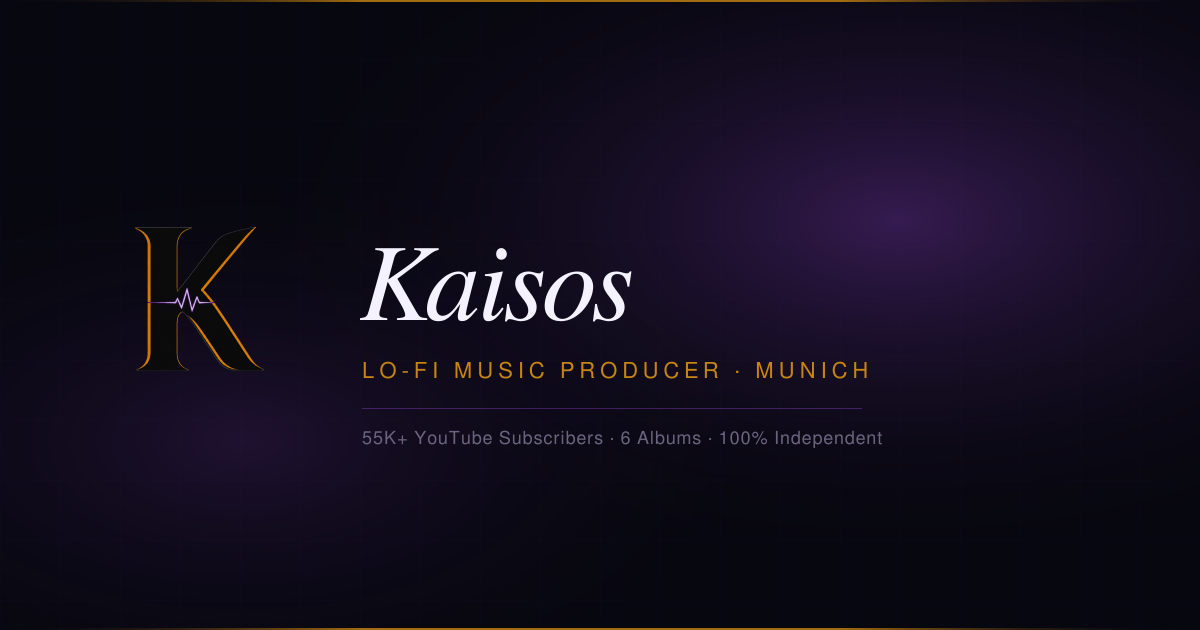
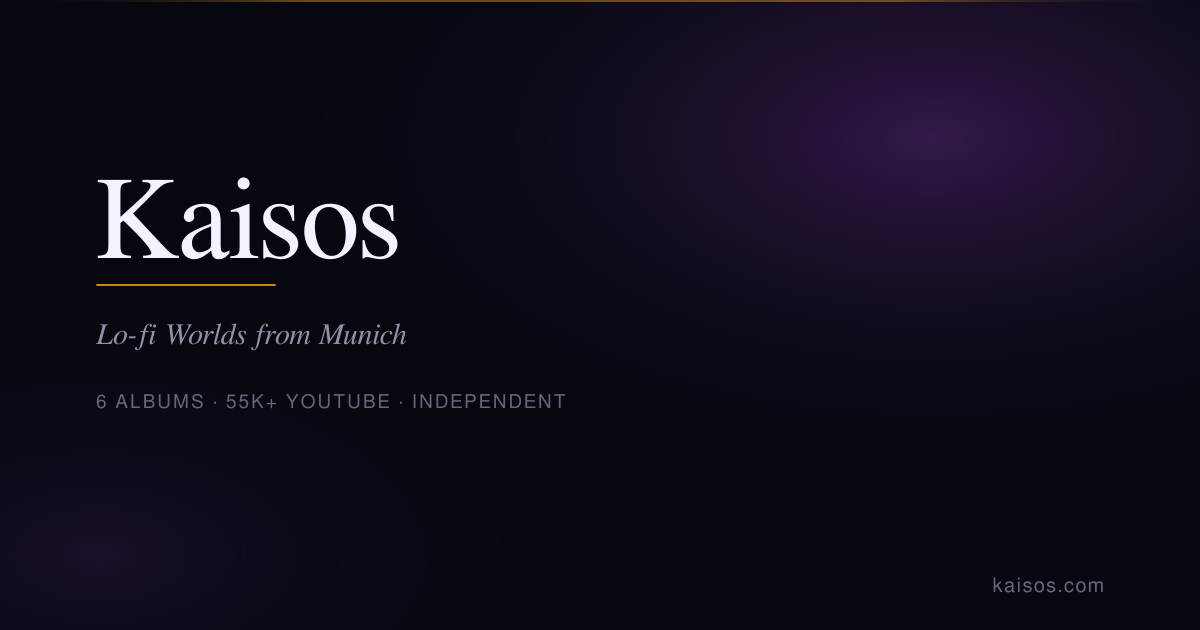
OG image redesign, font preloading, inline style cleanup
- og-image: redesigned from scratch — Kaisos name, gold separator,
  italic tagline, stats row, domain mark; purple glow atmosphere;
  95KB (was 141KB)
- Font preloading: inter-latin, cg-normal-latin, cg-italic-latin
  preloaded on all 4 main pages — eliminates FOIT on first load
- press.html: logo photo card inline style → .photo-logo-img CSS class;
  dead /* Contact */ CSS comment removed

diff --git a/press.html b/press.html
@@ -27,6 +27,9 @@
 <link rel="icon" type="image/png" href="favicon.png"/>
 <link rel="apple-touch-icon" href="Logo.png"/>
 <title>Press — Kaisos</title>
+<link rel="preload" as="font" type="font/woff2" href="/fonts/inter-latin.woff2" crossorigin/>
+<link rel="preload" as="font" type="font/woff2" href="/fonts/cg-normal-latin.woff2" crossorigin/>
+<link rel="preload" as="font" type="font/woff2" href="/fonts/cg-italic-latin.woff2" crossorigin/>
 <link rel="stylesheet" href="/fonts.css"/>
 <style>
 *,*::before,*::after{margin:0;padding:0;box-sizing:border-box}
@@ -123,7 +126,7 @@ nav{position:fixed;top:0;left:0;right:0;z-index:500;height:68px;display:flex;ali
 .photo-dl{display:inline-flex;align-items:center;gap:0.5rem;margin-top:1.25rem;padding:0.6rem 1.25rem;border:1px solid var(--border2);border-radius:3px;font-size:0.75rem;letter-spacing:0.08em;text-transform:uppercase;color:var(--muted2);transition:all 0.2s}
 .photo-dl:hover{border-color:var(--accent);color:var(--accent)}
 
-/* ── Contact ── */
+.photo-logo-img{object-fit:contain;padding:2rem;background:#0a0914}
 
 /* ══ FOOTER ══ */
 footer{border-top:1px solid var(--border);padding:2.5rem var(--pad);display:flex;align-items:center;justify-content:space-between;flex-wrap:wrap;gap:1rem}
@@ -326,7 +329,7 @@ footer{border-top:1px solid var(--border);padding:2.5rem var(--pad);display:flex
       <div class="photo-card">
         <picture>
           <source srcset="Logo.webp" type="image/webp"/>
-          <img src="Logo.png" alt="Kaisos logo" loading="lazy" style="object-fit:contain;padding:2rem;background:#0a0914"/>
+          <img src="Logo.png" alt="Kaisos logo" loading="lazy" class="photo-logo-img"/>
         </picture>
         <div class="photo-card-label">Official logo · transparent background</div>
       </div>

diff --git a/index.html b/index.html
@@ -59,6 +59,9 @@
 </script>
 <noscript><style>.reveal{opacity:1!important;transform:none!important}</style></noscript>
 <title>Kaisos — Lo-Fi Music Producer from Munich | Ambient Beats &amp; Chill Hip-Hop</title>
+<link rel="preload" as="font" type="font/woff2" href="/fonts/inter-latin.woff2" crossorigin/>
+<link rel="preload" as="font" type="font/woff2" href="/fonts/cg-normal-latin.woff2" crossorigin/>
+<link rel="preload" as="font" type="font/woff2" href="/fonts/cg-italic-latin.woff2" crossorigin/>
 <link rel="stylesheet" href="/fonts.css"/>
 <style>
 *,*::before,*::after{margin:0;padding:0;box-sizing:border-box}

diff --git a/merch.html b/merch.html
@@ -46,6 +46,9 @@
 <title>Merch — Kaisos</title>
 <link rel="icon" type="image/png" href="favicon.png"/>
 <link rel="apple-touch-icon" href="Logo.png"/>
+<link rel="preload" as="font" type="font/woff2" href="/fonts/inter-latin.woff2" crossorigin/>
+<link rel="preload" as="font" type="font/woff2" href="/fonts/cg-normal-latin.woff2" crossorigin/>
+<link rel="preload" as="font" type="font/woff2" href="/fonts/cg-italic-latin.woff2" crossorigin/>
 <link rel="stylesheet" href="/fonts.css"/>
 <style>
 *,*::before,*::after{margin:0;padding:0;box-sizing:border-box}

diff --git a/music.html b/music.html
@@ -43,6 +43,9 @@
 }
 </script>
 <title>Discography — Kaisos</title>
+<link rel="preload" as="font" type="font/woff2" href="/fonts/inter-latin.woff2" crossorigin/>
+<link rel="preload" as="font" type="font/woff2" href="/fonts/cg-normal-latin.woff2" crossorigin/>
+<link rel="preload" as="font" type="font/woff2" href="/fonts/cg-italic-latin.woff2" crossorigin/>
 <link rel="stylesheet" href="/fonts.css"/>
 <style>
 *,*::before,*::after{margin:0;padding:0;box-sizing:border-box}
